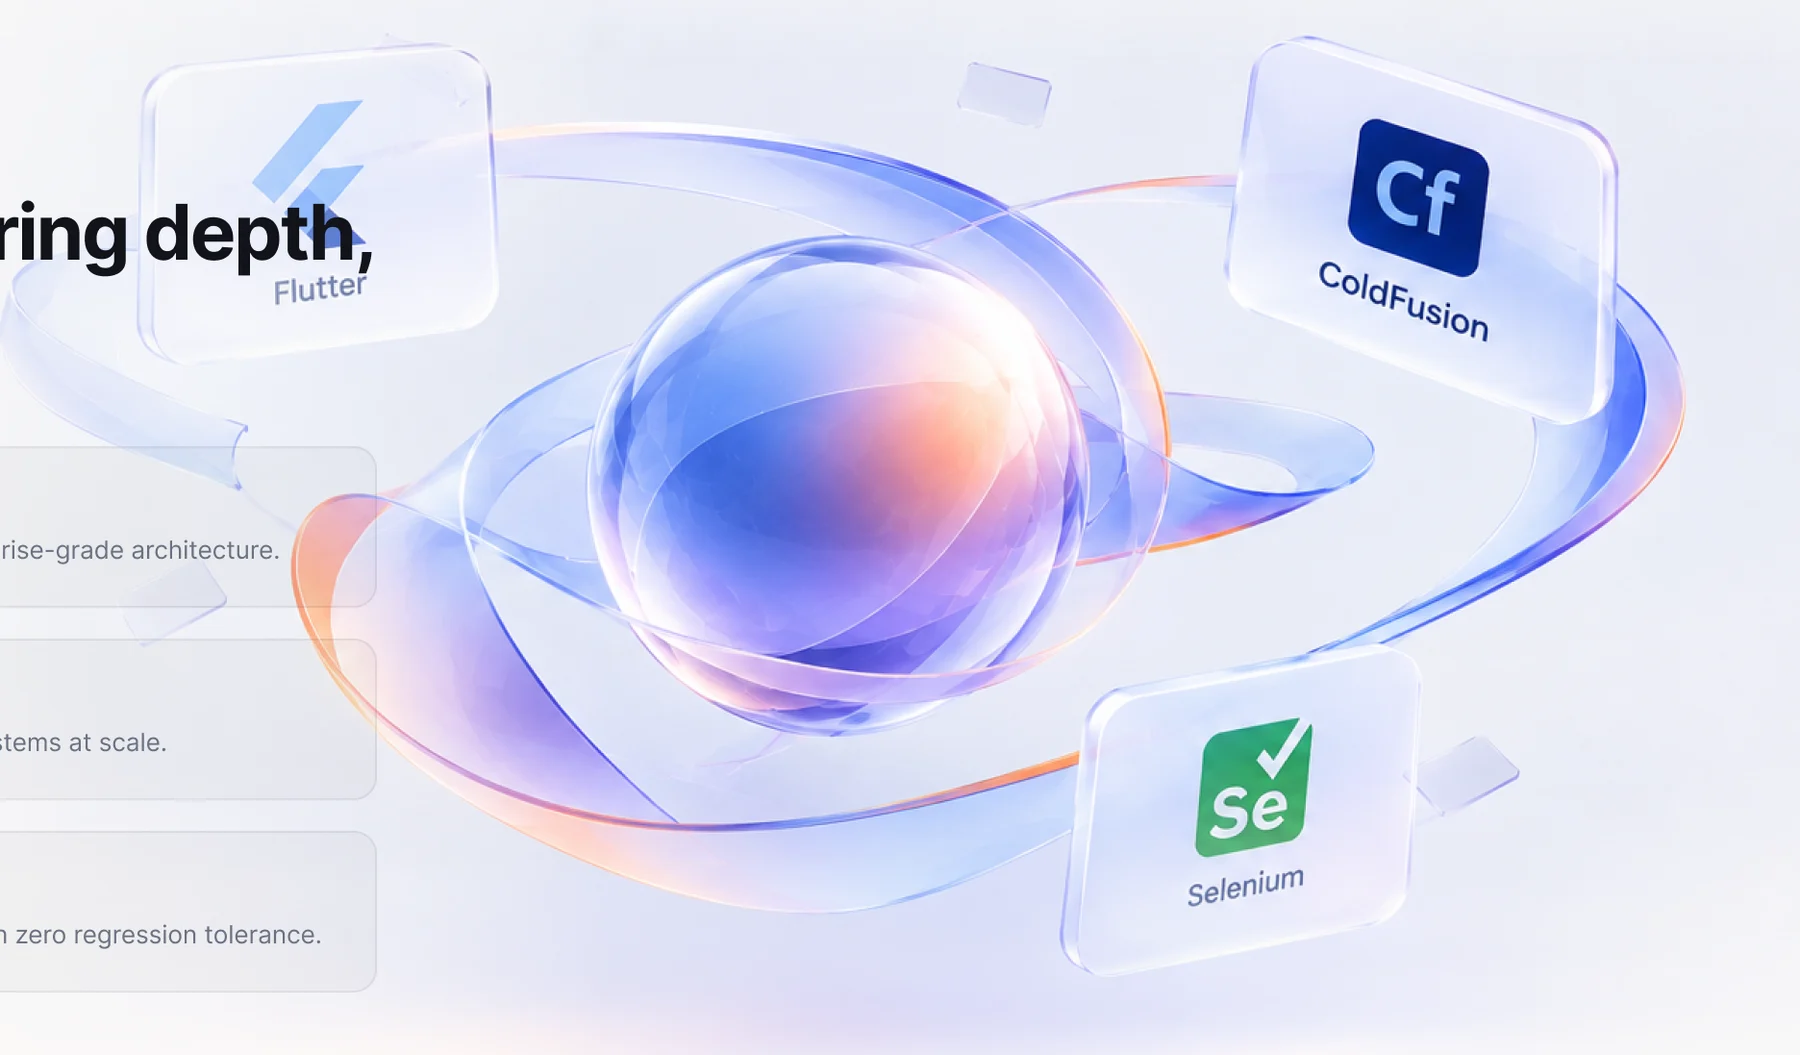
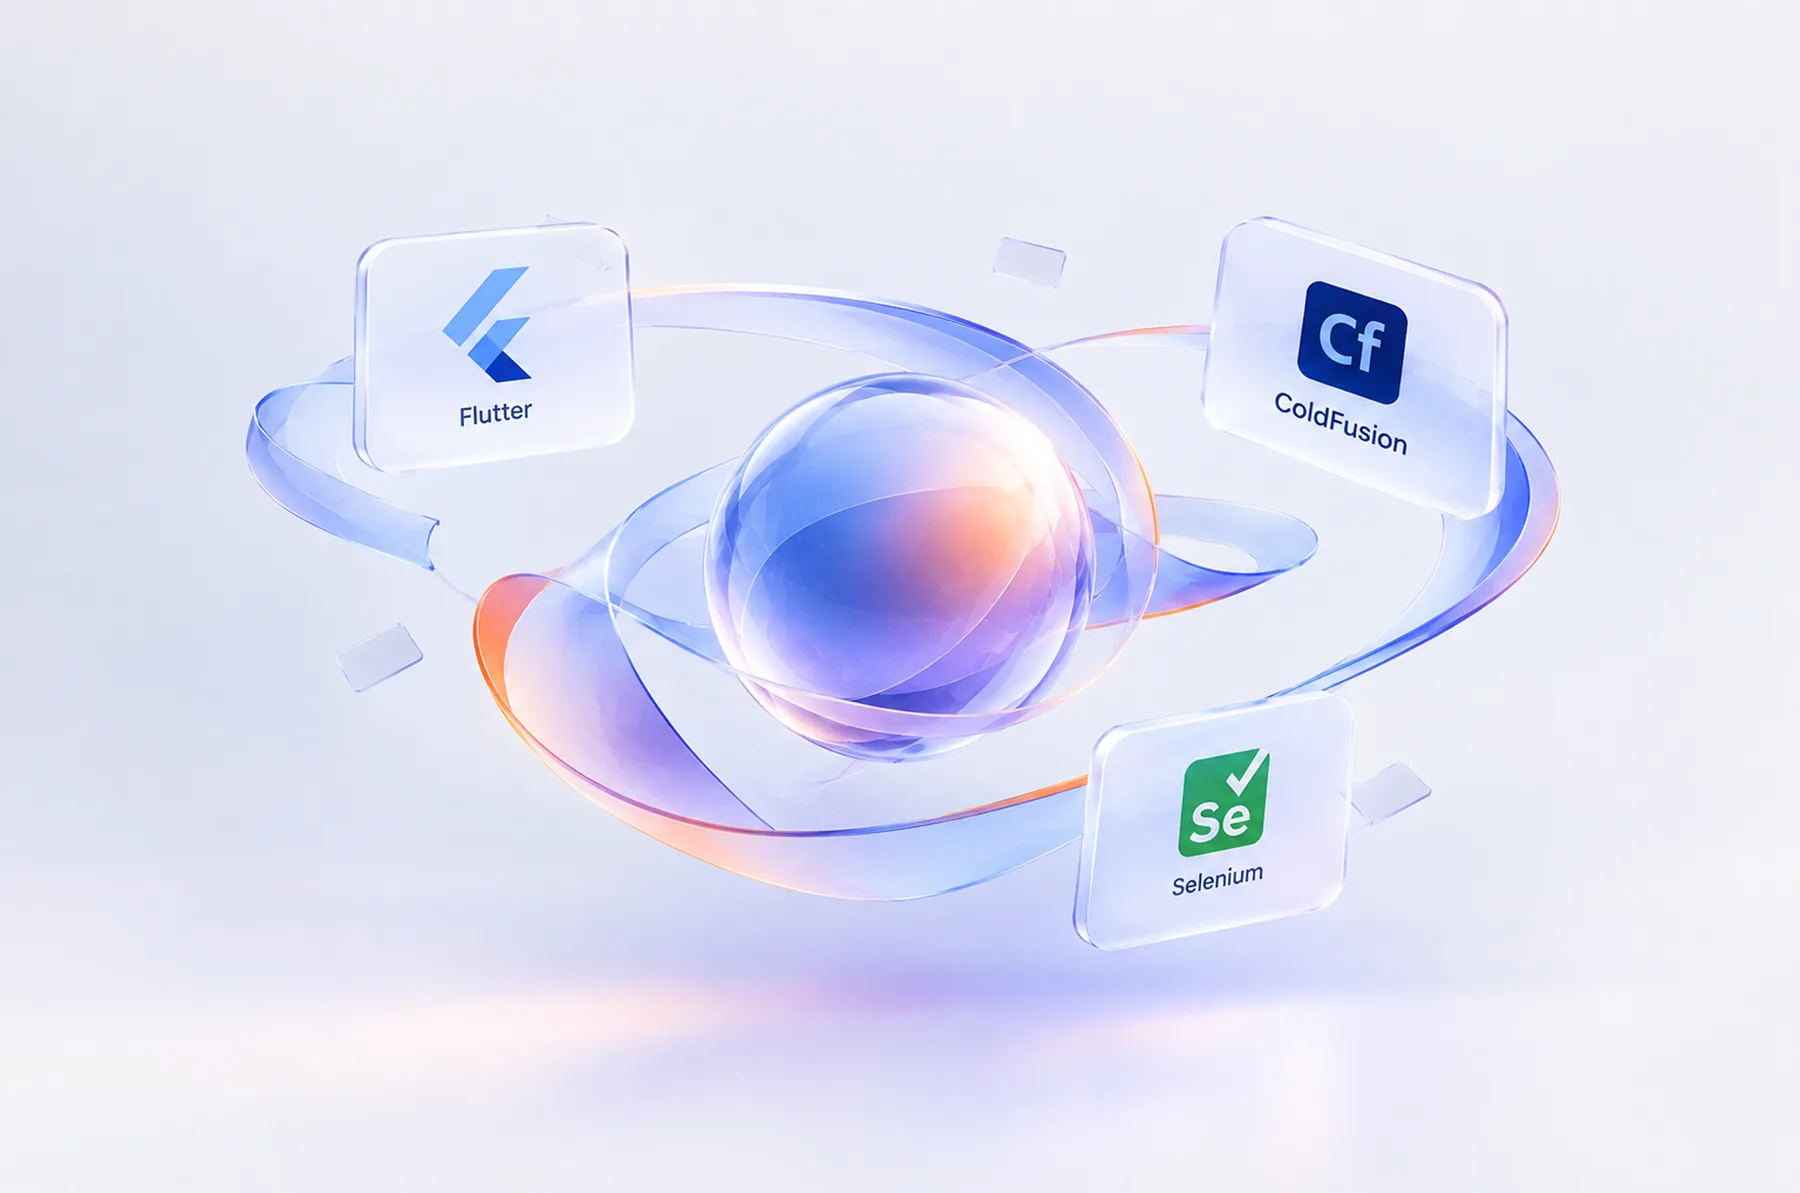
Use supplied photos and renders: leadership portraits, expertise sphere, globe, web-app imagery
Leadership now shows the four supplied portraits with the names, roles and
bios from the design. The Web Applications page and openings band use the
design's photos instead of drawn stand-ins, and the About locations section
uses the dark globe.

diff --git a/src/components/about/AboutLeadership.tsx b/src/components/about/AboutLeadership.tsx
@@ -1,28 +1,16 @@
+import Image from "next/image";
 import { ScrollReveal } from "@/components/motion/ScrollReveal";
 import { Parallax } from "@/components/motion/effects";
 import { SectionIntro } from "@/components/design/blocks";
 import { aboutPage } from "@/content/redesign";
 
-type Person = { name: string; role: string; bio: string; linkedin: string };
-
-function initials(name: string) {
-  const letters = name
-    .replace(/[[\]]/g, "")
-    .split(/\s+/)
-    .filter(Boolean)
-    .map((w) => w.charAt(0).toUpperCase());
-  return (letters[0] ?? "") + (letters.length > 1 ? letters[letters.length - 1] : "");
-}
-
 /**
- * Leadership, grouped Operations / Delivery. The CMS has no photo or group
- * field, so every person gets a ringed gradient initials avatar and people are
- * split across the two groups in CMS order.
+ * Leadership, grouped Operations / Delivery, each with a ringed circular
+ * portrait. Names, roles, bios and photos live in `aboutPage.leadership.people`.
  */
-export function AboutLeadership({ people }: { people: Person[] }) {
+export function AboutLeadership() {
   const l = aboutPage.leadership;
-  const half = Math.ceil(people.length / 2);
-  const groups = [people.slice(0, half), people.slice(half)];
+  const groups = l.groups.map((_, gi) => l.people.filter((person) => person.group === gi));
 
   return (
     <section id="leadership" className="relative isolate overflow-hidden py-20 lg:py-28">
@@ -47,24 +35,18 @@ export function AboutLeadership({ people }: { people: Person[] }) {
                   {group.map((person, pi) => (
                     <li key={`${person.role}-${pi}`} data-reveal-item className="flex flex-col items-center text-center">
                       <span className="rounded-full p-1.5 shadow-[0_0_50px_-8px_rgba(255,107,74,0.45)] ring-2 ring-brand-500/50">
-                        <span
-                          className="flex h-32 w-32 items-center justify-center rounded-full bg-gradient-to-br from-brand-400 via-brand-500 to-[#8f86f5] text-3xl font-bold text-white sm:h-36 sm:w-36"
-                          aria-hidden="true"
-                        >
-                          {initials(person.name)}
-                        </span>
+                        <Image
+                          src={person.photo}
+                          alt={`Portrait of ${person.name}`}
+                          width={160}
+                          height={160}
+                          sizes="144px"
+                          className="h-32 w-32 rounded-full object-cover sm:h-36 sm:w-36"
+                        />
                       </span>
                       <h3 className="mt-6 text-base font-bold">{person.name}</h3>
                       <p className="mt-1 text-sm font-semibold text-brand-600">{person.role}</p>
-                      <p className="mt-3 max-w-[16rem] text-xs leading-relaxed text-ink-600">{person.bio}</p>
-                      <a
-                        href={person.linkedin}
-                        target="_blank"
-                        rel="noopener noreferrer"
-                        className="mt-3 text-xs font-semibold text-brand-700 hover:text-brand-800"
-                      >
-                        LinkedIn profile
-                      </a>
+                      <p className="mt-3 max-w-[16rem] text-sm leading-relaxed text-ink-600">{person.bio}</p>
                     </li>
                   ))}
                 </ScrollReveal>

diff --git a/src/components/design/blocks.tsx b/src/components/design/blocks.tsx
@@ -109,7 +109,7 @@ export function GlassBackdrop({ position = "center" }: { position?: string }) {
 
 /* ---------------------------------------------------------------- Locations */
 
-export function Locations({ lead }: { lead: string }) {
+export function Locations({ lead, globe }: { lead: string; globe?: string }) {
   return (
     <section id="locations" className="relative overflow-hidden py-24 lg:py-32">
       <div className="container-x">
@@ -118,18 +118,31 @@ export function Locations({ lead }: { lead: string }) {
         </ScrollReveal>
 
         <div className="mt-14 grid items-center gap-10 lg:grid-cols-[1fr_1.2fr]">
-          <div className="relative aspect-square max-w-lg overflow-hidden rounded-l-full">
-            <Parallax speed={0.15} className="absolute inset-0">
+          {globe ? (
+            <Parallax speed={0.15} className="relative mx-auto aspect-square w-full max-w-sm">
               <Image
-                src="/images/globe.webp"
+                src={globe}
                 alt="A glowing globe with light trails connecting the Americas to India"
-                width={1040}
-                height={1040}
-                sizes="(min-width: 1024px) 40vw, 90vw"
-                className="h-full w-full scale-110 object-cover"
+                width={560}
+                height={560}
+                sizes="(min-width: 1024px) 24rem, 80vw"
+                className="h-full w-full object-contain"
               />
             </Parallax>
-          </div>
+          ) : (
+            <div className="relative aspect-square max-w-lg overflow-hidden rounded-l-full">
+              <Parallax speed={0.15} className="absolute inset-0">
+                <Image
+                  src="/images/globe.webp"
+                  alt="A glowing globe with light trails connecting the Americas to India"
+                  width={1040}
+                  height={1040}
+                  sizes="(min-width: 1024px) 40vw, 90vw"
+                  className="h-full w-full scale-110 object-cover"
+                />
+              </Parallax>
+            </div>
+          )}
 
           <ScrollReveal as="ul" variant="up" stagger={0.14} className="space-y-5">
             {locations.map((office) => (

diff --git a/src/content/redesign.ts b/src/content/redesign.ts
@@ -406,6 +406,37 @@ export const aboutPage = {
     title: "Accountable for your engineering outcome.",
     lead: "Our leaders are hands-on architects who have shipped major platforms. Direct engineering accountability, no intermediaries.",
     groups: ["Operations", "Delivery"],
+    // Names, roles and photos as supplied with the design.
+    people: [
+      {
+        group: 0,
+        name: "Mohan Duggi",
+        role: "CEO",
+        bio: "Ph.D. in distributed databases. Directly manages our 24/7 monitoring and core delivery squads across Hyderabad.",
+        photo: "/images/leader-mohan-duggi.webp",
+      },
+      {
+        group: 0,
+        name: "Steve Goldner",
+        role: "Head of USA Operations",
+        bio: "Legacy systems expert who has guided 50+ CF and database transitions without a single minute of unexpected downtime.",
+        photo: "/images/leader-steve-goldner.webp",
+      },
+      {
+        group: 1,
+        name: "Rohit Uppaluri",
+        role: "Delivery",
+        bio: "Former platform lead with 18+ years in systems infrastructure. Built Infoane from an independent consultancy to a global partner.",
+        photo: "/images/leader-rohit-uppaluri.webp",
+      },
+      {
+        group: 1,
+        name: "Archana Nagarajan",
+        role: "Delivery",
+        bio: "Delivery specialist with deep expertise in cross-functional team coordination and on-time engineering execution across global programs.",
+        photo: "/images/leader-archana-nagarajan.webp",
+      },
+    ],
   },
   cta: {
     eyebrow: "Get started",
@@ -683,7 +714,7 @@ export const careersRedesign = {
       title: "Be part of our amazing team",
       body: "Don't see a role that fits your profile perfectly? We are always on the lookout for talented, passionate architects, engineers, and designers. Shoot us your resume and let's discuss.",
       cta: { label: "Send Your Resume", href: routes.apply },
-      image: "/images/mission-team.webp",
+      image: "/images/openings-team.webp",
       imageAlt: "Engineers gathered around a desk with curved monitors, discussing an architecture diagram",
     },
   },

diff --git a/src/components/web-applications/WaStandards.tsx b/src/components/web-applications/WaStandards.tsx
@@ -1,9 +1,8 @@
 import Image from "next/image";
 import { ScrollReveal } from "@/components/motion/ScrollReveal";
-import { Float, ZoomImage } from "@/components/motion/effects";
+import { ZoomImage } from "@/components/motion/effects";
 import { SectionIntro } from "@/components/design/blocks";
 import { webApplications } from "@/content/web-applications";
-import { ArchitectureDiagram } from "./ArchitectureDiagram";
 
 function CheckList({ items }: { items: readonly string[] }) {
   return (
@@ -55,18 +54,19 @@ export function WaStandards() {
 
         <div className="mt-16 grid items-center gap-10 lg:mt-20 lg:grid-cols-2 lg:gap-24">
           <FeatureCopy {...standards.scalable} />
-          <ZoomImage className="relative overflow-hidden rounded-3xl bg-[#f1f4f8] p-4 ring-1 ring-ink-200/60 sm:p-6">
-            <div data-zoom-media className="relative aspect-[14/10]">
-              <ArchitectureDiagram label={standards.scalable.diagramLabel} />
-              <Float amount={6} duration={5} className="absolute right-[6%] top-[8%]">
-                <span className="block h-3 w-3 rounded-full bg-brand-500 shadow-[0_0_0_6px_rgba(255,107,74,0.18)]" />
-              </Float>
-            </div>
+          <ZoomImage className="relative aspect-[1134/715] overflow-hidden rounded-3xl ring-1 ring-ink-200/60">
+            <Image
+              src="/images/wa-architecture.webp"
+              alt={standards.scalable.diagramLabel}
+              fill
+              sizes="(min-width: 1024px) 45vw, 90vw"
+              className="object-cover"
+            />
           </ZoomImage>
         </div>
 
         <div className="mt-20 grid items-center gap-10 lg:mt-28 lg:grid-cols-2 lg:gap-24">
-          <ZoomImage className="relative order-2 aspect-[7/6] overflow-hidden rounded-3xl lg:order-1">
+          <ZoomImage className="relative order-2 aspect-[1134/712] overflow-hidden rounded-3xl lg:order-1">
             <Image
               src={standards.security.image}
               alt={standards.security.imageAlt}

diff --git a/src/content/web-applications.ts b/src/content/web-applications.ts
@@ -45,7 +45,7 @@ export const webApplications = {
         icon: "globe",
         title: "Enterprise Web Portals",
         body: "Secure, multi-role portals designed to manage complex user flows, high data density, and strict compliance layers in healthcare, finance, and logistics.",
-        art: "portal",
+        art: "/images/wa-portal.webp",
       },
       {
         key: "saas",
@@ -59,14 +59,14 @@ export const webApplications = {
         icon: "cart",
         title: "E-Commerce Solutions",
         body: "Custom transaction pipelines, real-time inventory synchronizations, and custom checkout flows engineered to handle thousands of concurrent queries without failure.",
-        art: "commerce",
+        art: "/images/wa-ecommerce.webp",
       },
       {
         key: "api",
         icon: "code",
         title: "API-Driven Applications",
         body: "High-availability, headless APIs designed to tie complex microservices together. We guarantee clean integrations and highly optimized JSON exchange pipelines.",
-        art: "api",
+        art: "/images/wa-api.webp",
       },
       {
         key: "internal",
@@ -109,7 +109,7 @@ export const webApplications = {
         "Continuous vulnerability penetration checks",
         "AES-256 data storage and transit encryptions",
       ],
-      image: "/images/ai-secure-lock.webp",
+      image: "/images/wa-lock.webp",
       imageAlt: "A glowing padlock at the centre of a circuit board, representing security-first infrastructure",
     },
   },

diff --git a/src/components/web-applications/WaBuild.tsx b/src/components/web-applications/WaBuild.tsx
@@ -2,16 +2,12 @@ import { ScrollReveal } from "@/components/motion/ScrollReveal";
 import { ZoomImage } from "@/components/motion/effects";
 import { SectionIntro } from "@/components/design/blocks";
 import { webApplications } from "@/content/web-applications";
-import { ApiArt, CommerceArt, PortalArt } from "./WaArt";
+import Image from "next/image";
 import { WaIcon } from "./WaIcon";
 
 type Card = (typeof webApplications.build.cards)[number];
 
-const ART = { portal: PortalArt, commerce: CommerceArt, api: ApiArt } as const;
-
 function BuildCard({ card, large = false }: { card: Card; large?: boolean }) {
-  const Art = card.art ? ART[card.art] : null;
-
   return (
     <article
       data-reveal-item
@@ -22,11 +18,15 @@ function BuildCard({ card, large = false }: { card: Card; large?: boolean }) {
         {card.title}
       </h3>
       <p className="mt-4 text-sm leading-relaxed text-ink-600">{card.body}</p>
-      {Art && (
-        <ZoomImage className="mt-6 h-40 overflow-hidden rounded-xl">
-          <div data-zoom-media className="h-full w-full">
-            <Art />
-          </div>
+      {card.art && (
+        <ZoomImage className="relative mt-6 aspect-[2/1] overflow-hidden rounded-xl">
+          <Image
+            src={card.art}
+            alt={`${card.title} example`}
+            fill
+            sizes="(min-width: 1024px) 26vw, 90vw"
+            className="object-cover"
+          />
         </ZoomImage>
       )}
     </article>

diff --git a/src/app/(site)/about/page.tsx b/src/app/(site)/about/page.tsx
@@ -44,8 +44,11 @@ export default async function AboutPage() {
       <AboutTrusted />
       <AboutExpertise />
       <AboutSuccess />
-      <AboutLeadership people={about.leadership} />
-      <Locations lead="Three offices across the United States and India, connected by a shared standard of engineering delivery." />
+      <AboutLeadership />
+      <Locations
+        globe="/images/globe-dark.webp"
+        lead="Three offices across the United States and India, connected by a shared standard of engineering delivery."
+      />
       <CenterCta {...aboutPage.cta} />
     </>
   );

diff --git a/src/components/about/AboutExpertise.tsx b/src/components/about/AboutExpertise.tsx
@@ -47,7 +47,7 @@ export function AboutExpertise() {
             src={e.image}
             alt="A glass orb ringed by floating Flutter, ColdFusion and Selenium tiles"
             width={1800}
-            height={1055}
+            height={1193}
             sizes="(min-width: 1024px) 60vw, 100vw"
             className="h-auto w-full [mask-image:radial-gradient(closest-side,#000_80%,transparent)]"
           />
